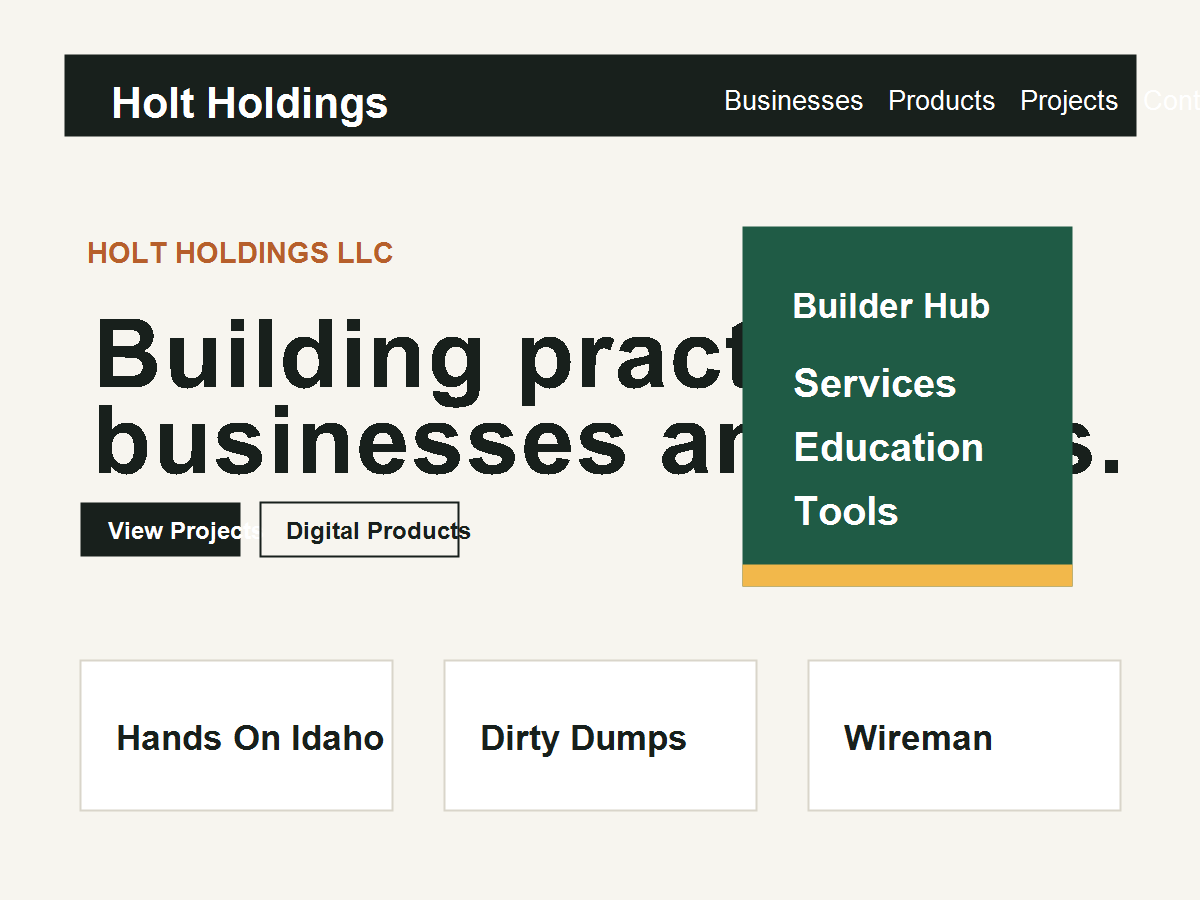
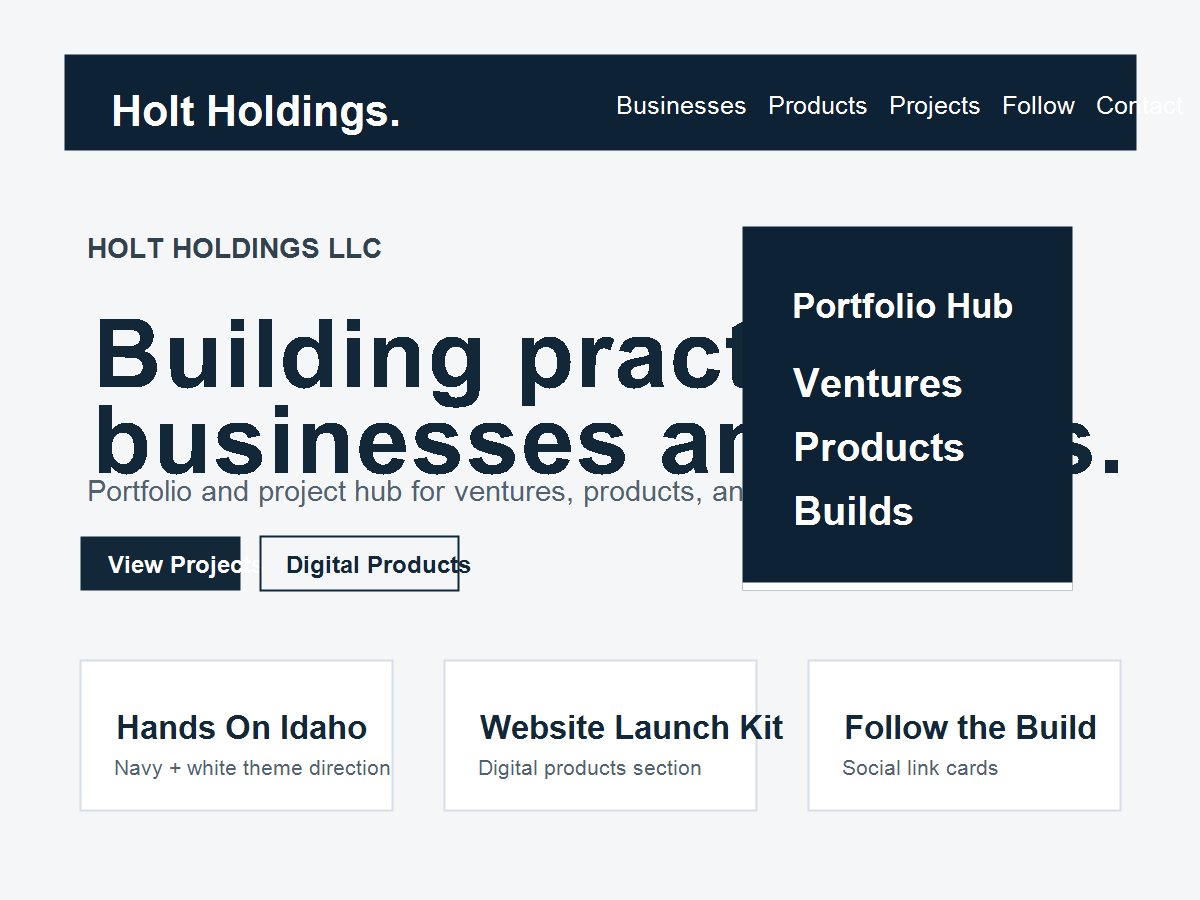
Refresh homepage products and social links

diff --git a/style.css b/style.css
@@ -4,11 +4,11 @@ Theme URI: https://holtholdings.us
 Author: Austin Holt
 Author URI: https://holtholdings.us
 Description: A lightweight portfolio and project hub for Austin Holt and Holt Holdings LLC.
-Version: 1.2.0
+Version: 1.3.0
 Requires at least: 6.0
 Tested up to: 6.6
 Requires PHP: 7.4
-Update URI: https://github.com/YOUR-GITHUB-USERNAME/holt-holdings-wp-theme
+Update URI: https://github.com/austindholt/holt-holdings-wp-theme
 License: GNU General Public License v2 or later
 License URI: https://www.gnu.org/licenses/gpl-2.0.html
 Text Domain: holt-holdings
@@ -16,16 +16,17 @@ Tags: custom-logo, custom-menu, featured-images, one-column, portfolio
 */
 
 :root {
-  --bg: #f7f5ef;
+  --bg: #f4f6f8;
   --surface: #ffffff;
-  --ink: #18201c;
-  --muted: #5c665e;
-  --line: #d9d5ca;
-  --steel: #344552;
-  --green: #1f5b45;
-  --copper: #b65f2b;
-  --yellow: #f2b84b;
-  --shadow: 0 18px 55px rgba(24, 32, 28, 0.1);
+  --ink: #122738;
+  --muted: #52616f;
+  --line: #d8dee5;
+  --steel: #31414e;
+  --navy: #122738;
+  --dark-navy: #0d2234;
+  --soft-navy: #e8eef3;
+  --white: #ffffff;
+  --shadow: 0 18px 55px rgba(13, 34, 52, 0.12);
   --radius: 8px;
   --max: 1160px;
 }
@@ -40,13 +41,13 @@ body {
   font-size: 16px;
   line-height: 1.6;
 }
-a { color: inherit; text-decoration-color: rgba(31, 91, 69, 0.45); text-underline-offset: 0.18em; }
-a:hover, a:focus { color: var(--green); }
+a { color: inherit; text-decoration-color: rgba(18, 39, 56, 0.35); text-underline-offset: 0.18em; }
+a:hover, a:focus { color: var(--navy); }
 img { display: block; height: auto; max-width: 100%; }
 .screen-reader-text { clip: rect(1px, 1px, 1px, 1px); height: 1px; overflow: hidden; position: absolute; white-space: nowrap; width: 1px; }
 
 .site-header {
-  background: rgba(247, 245, 239, 0.94);
+  background: rgba(244, 246, 248, 0.94);
   border-bottom: 1px solid var(--line);
   position: sticky;
   top: 0;
@@ -69,14 +70,14 @@ img { display: block; height: auto; max-width: 100%; }
 .site-branding .custom-logo-link { display: inline-flex; flex: 0 0 auto; }
 .site-branding .custom-logo {
   height: auto;
-  max-height: 48px;
-  max-width: min(220px, 48vw);
+  max-height: 54px;
+  max-width: min(240px, 48vw);
   width: auto;
 }
 .brand-mark {
   align-items: center;
   background: var(--ink);
-  border: 2px solid var(--yellow);
+  border: 2px solid var(--white);
   color: #fff;
   display: inline-flex;
   font-size: 0.86rem;
@@ -126,7 +127,7 @@ img { display: block; height: auto; max-width: 100%; }
 .hero { padding-block: 56px 40px; }
 .hero-grid { align-items: center; display: grid; gap: 34px; }
 .eyebrow, .card-kicker, .coming-soon {
-  color: var(--copper);
+  color: var(--steel);
   font-size: 0.78rem;
   font-weight: 800;
   letter-spacing: 0.08em;
@@ -160,19 +161,21 @@ img { display: block; height: auto; max-width: 100%; }
   padding: 11px 16px;
   text-decoration: none;
 }
-.button:hover, .button:focus, .wp-block-button__link:hover, .wp-block-button__link:focus { background: var(--green); border-color: var(--green); color: #fff; }
+.button:hover, .button:focus, .wp-block-button__link:hover, .wp-block-button__link:focus { background: var(--steel); border-color: var(--steel); color: #fff; }
 .button.secondary { background: transparent; color: var(--ink); }
 .button.secondary:hover, .button.secondary:focus { background: var(--ink); color: #fff; }
 
 .hero-panel {
-  background: linear-gradient(135deg, rgba(31, 91, 69, 0.95), rgba(52, 69, 82, 0.96));
+  background:
+    linear-gradient(135deg, rgba(13, 34, 52, 0.98), rgba(18, 39, 56, 0.96)),
+    repeating-linear-gradient(90deg, rgba(255, 255, 255, 0.05) 0 1px, transparent 1px 28px);
   box-shadow: var(--shadow);
   color: #fff;
   overflow: hidden;
   padding: 24px;
   position: relative;
 }
-.hero-panel::after { background: var(--yellow); content: ""; height: 12px; inset: auto 0 0; position: absolute; }
+.hero-panel::after { background: var(--white); content: ""; height: 8px; inset: auto 0 0; position: absolute; opacity: 0.9; }
 .panel-label { color: rgba(255,255,255,0.72); font-size: 0.78rem; font-weight: 800; letter-spacing: 0.08em; text-transform: uppercase; }
 .panel-lines { display: grid; gap: 12px; margin-top: 24px; }
 .panel-line { align-items: center; border-top: 1px solid rgba(255,255,255,0.18); display: flex; gap: 12px; justify-content: space-between; padding-top: 12px; }
@@ -193,16 +196,34 @@ img { display: block; height: auto; max-width: 100%; }
 .hub-card h3, .product-feature h3, .contact-band h2 { font-size: 1.35rem; line-height: 1.15; margin: 10px 0; }
 .hub-card p, .product-feature p, .contact-band p, .entry-content p { color: var(--muted); margin: 0 0 16px; }
 .card-actions { margin-top: auto; }
-.product-feature { background: linear-gradient(90deg, rgba(242,184,75,0.24), transparent 44%), var(--surface); display: grid; gap: 16px; }
+.product-grid { display: grid; gap: 14px; }
+.product-feature { background: linear-gradient(90deg, rgba(18, 39, 56, 0.08), transparent 48%), var(--surface); display: grid; gap: 16px; }
 .check-list { display: grid; gap: 8px; list-style: none; margin: 0; padding: 0; }
 .check-list li { color: var(--muted); padding-left: 26px; position: relative; }
-.check-list li::before { background: var(--green); content: ""; height: 8px; left: 2px; position: absolute; top: 0.65em; width: 8px; }
-.coming-soon { background: rgba(242,184,75,0.18); border: 1px solid rgba(182,95,43,0.24); display: inline-flex; padding: 4px 8px; width: fit-content; }
+.check-list li::before { background: var(--navy); content: ""; height: 8px; left: 2px; position: absolute; top: 0.65em; width: 8px; }
+.coming-soon { background: var(--soft-navy); border: 1px solid var(--line); display: inline-flex; padding: 4px 8px; width: fit-content; }
 .contact-band { align-items: center; display: grid; gap: 18px; }
 .social-list { list-style: none; margin-bottom: 0; padding: 0; }
 .social-list a { border: 1px solid var(--line); display: inline-flex; font-weight: 800; padding: 10px 12px; text-decoration: none; }
+.social-grid { display: grid; gap: 12px; grid-template-columns: repeat(2, minmax(0, 1fr)); }
+.social-card {
+  align-items: center;
+  background: var(--surface);
+  border: 1px solid var(--line);
+  border-radius: var(--radius);
+  color: var(--ink);
+  display: flex;
+  font-weight: 800;
+  justify-content: space-between;
+  min-height: 58px;
+  padding: 14px 16px;
+  text-decoration: none;
+}
+.social-card::after { color: var(--muted); content: ">"; font-size: 1rem; }
+.social-card:hover, .social-card:focus { background: var(--navy); border-color: var(--navy); color: #fff; }
+.social-card:hover::after, .social-card:focus::after { color: #fff; }
 
-.site-footer { background: var(--ink); color: #fff; margin-top: 34px; padding-block: 34px; }
+.site-footer { background: var(--dark-navy); color: #fff; margin-top: 34px; padding-block: 34px; }
 .footer-inner { display: grid; gap: 18px; }
 .footer-main { display: grid; gap: 8px; max-width: 760px; }
 .footer-nav ul { display: flex; flex-wrap: wrap; gap: 8px 18px; list-style: none; margin: 0; padding: 0; }
@@ -222,7 +243,10 @@ img { display: block; height: auto; max-width: 100%; }
   .hero-grid { grid-template-columns: minmax(0, 1.45fr) minmax(280px, 0.55fr); }
   .section { padding-block: 62px; }
   .card-grid { grid-template-columns: repeat(3, minmax(0, 1fr)); }
+  .product-grid { grid-template-columns: repeat(2, minmax(0, 1fr)); }
   .product-feature, .contact-band { grid-template-columns: minmax(0, 1.15fr) minmax(260px, 0.85fr); }
+  .product-grid .product-feature { grid-template-columns: 1fr; }
+  .social-grid { grid-template-columns: repeat(3, minmax(0, 1fr)); }
   .footer-inner { align-items: center; grid-template-columns: minmax(0, 1fr) auto; }
 }
 @media (max-width: 782px) { .admin-bar .site-header { top: 46px; } }

diff --git a/front-page.php b/front-page.php
@@ -51,6 +51,42 @@ $projects = array(
 		'label'       => 'Coming Soon',
 	),
 );
+
+$digital_products = array(
+	array(
+		'name'        => 'Low Volt Crash Course',
+		'kicker'      => 'Digital Education',
+		'description' => 'A standalone beginner-friendly digital education product covering cameras, access control, wiring basics, tools, and practical field knowledge.',
+		'url'         => holt_holdings_setting( 'course_url', '#low-volt-crash-course' ),
+		'button'      => 'View Course',
+		'points'      => array(
+			'Cameras, access control, and system fundamentals',
+			'Wiring basics, field tools, and practical learning habits',
+			'Plain-language lessons for beginners',
+		),
+	),
+	array(
+		'name'        => 'DIY Website Builder / Website Launch Kit',
+		'kicker'      => 'Website Product',
+		'description' => 'DIY Website Builder is a practical website launch kit built to help small business owners, side hustlers, and creators move from a blank screen to a live website faster. It includes structure, prompts, and guidance to make the website-building process less overwhelming.',
+		'url'         => holt_holdings_setting( 'website_kit_url', '#website-launch-kit' ),
+		'button'      => 'View Product',
+		'points'      => array(
+			'Website structure and launch planning',
+			'Prompts for copy, offers, pages, and calls to action',
+			'Guidance for getting unstuck and publishing faster',
+		),
+	),
+);
+
+$social_links = array(
+	array( 'label' => 'Facebook', 'url' => holt_holdings_setting( 'facebook_url', '#facebook' ) ),
+	array( 'label' => 'Instagram', 'url' => holt_holdings_setting( 'instagram_url', '#instagram' ) ),
+	array( 'label' => 'YouTube', 'url' => holt_holdings_setting( 'youtube_url', '#youtube' ) ),
+	array( 'label' => 'TikTok', 'url' => holt_holdings_setting( 'tiktok_url', '#tiktok' ) ),
+	array( 'label' => 'LinkedIn', 'url' => holt_holdings_setting( 'linkedin_url', '#linkedin' ) ),
+	array( 'label' => 'Personal Website', 'url' => holt_holdings_setting( 'personal_site_url', '#personal-website' ) ),
+);
 ?>
 <main id="primary" class="site-main">
 	<section class="hero" id="home">
@@ -106,21 +142,26 @@ $projects = array(
 	<section class="section" id="products">
 		<div class="section-heading">
 			<span class="eyebrow"><?php esc_html_e( 'Digital Products', 'holt-holdings' ); ?></span>
-			<h2><?php esc_html_e( 'Courses and practical resources.', 'holt-holdings' ); ?></h2>
+			<h2><?php esc_html_e( 'Courses, launch kits, and practical resources.', 'holt-holdings' ); ?></h2>
+			<p><?php esc_html_e( 'Digital products listed here are separate products and resources connected to the broader Holt Holdings portfolio.', 'holt-holdings' ); ?></p>
 		</div>
-		<article class="product-feature">
-			<div>
-				<span class="card-kicker"><?php esc_html_e( 'Featured Product', 'holt-holdings' ); ?></span>
-				<h3><?php esc_html_e( 'Low Volt Crash Course', 'holt-holdings' ); ?></h3>
-				<p><?php esc_html_e( 'A standalone beginner-friendly digital education product covering cameras, access control, wiring basics, tools, and practical field knowledge.', 'holt-holdings' ); ?></p>
-				<a class="button" href="<?php echo esc_url( holt_holdings_setting( 'course_url', '#' ) ); ?>"><?php esc_html_e( 'View Course', 'holt-holdings' ); ?></a>
-			</div>
-			<ul class="check-list">
-				<li><?php esc_html_e( 'Cameras, access control, and system fundamentals', 'holt-holdings' ); ?></li>
-				<li><?php esc_html_e( 'Wiring basics, field tools, and practical learning habits', 'holt-holdings' ); ?></li>
-				<li><?php esc_html_e( 'Plain-language lessons for beginners', 'holt-holdings' ); ?></li>
-			</ul>
-		</article>
+		<div class="product-grid">
+			<?php foreach ( $digital_products as $product ) : ?>
+				<article class="product-feature">
+					<div>
+						<span class="card-kicker"><?php echo esc_html( $product['kicker'] ); ?></span>
+						<h3><?php echo esc_html( $product['name'] ); ?></h3>
+						<p><?php echo esc_html( $product['description'] ); ?></p>
+						<a class="button" href="<?php echo esc_url( $product['url'] ); ?>"><?php echo esc_html( $product['button'] ); ?></a>
+					</div>
+					<ul class="check-list">
+						<?php foreach ( $product['points'] as $point ) : ?>
+							<li><?php echo esc_html( $point ); ?></li>
+						<?php endforeach; ?>
+					</ul>
+				</article>
+			<?php endforeach; ?>
+		</div>
 	</section>
 
 	<section class="section" id="projects">
@@ -139,6 +180,19 @@ $projects = array(
 		</div>
 	</section>
 
+	<section class="section" id="follow">
+		<div class="section-heading">
+			<span class="eyebrow"><?php esc_html_e( 'Follow Along', 'holt-holdings' ); ?></span>
+			<h2><?php esc_html_e( 'Follow the Build', 'holt-holdings' ); ?></h2>
+			<p><?php esc_html_e( 'Follow along as Holt Holdings grows practical businesses, digital products, tools, and trade-focused resources.', 'holt-holdings' ); ?></p>
+		</div>
+		<div class="social-grid">
+			<?php foreach ( $social_links as $social_link ) : ?>
+				<a class="social-card" href="<?php echo esc_url( $social_link['url'] ); ?>"><?php echo esc_html( $social_link['label'] ); ?></a>
+			<?php endforeach; ?>
+		</div>
+	</section>
+
 	<section class="section" id="contact">
 		<div class="contact-band">
 			<div>
@@ -148,12 +202,6 @@ $projects = array(
 			</div>
 			<div>
 				<a class="button" href="mailto:<?php echo esc_attr( antispambot( $contact_email ) ); ?>"><?php esc_html_e( 'Email Austin', 'holt-holdings' ); ?></a>
-				<ul class="social-list" id="social">
-					<li><a href="<?php echo esc_url( holt_holdings_setting( 'instagram_url', '#' ) ); ?>"><?php esc_html_e( 'Instagram', 'holt-holdings' ); ?></a></li>
-					<li><a href="<?php echo esc_url( holt_holdings_setting( 'youtube_url', '#' ) ); ?>"><?php esc_html_e( 'YouTube', 'holt-holdings' ); ?></a></li>
-					<li><a href="<?php echo esc_url( holt_holdings_setting( 'linkedin_url', '#' ) ); ?>"><?php esc_html_e( 'LinkedIn', 'holt-holdings' ); ?></a></li>
-					<li><a href="<?php echo esc_url( holt_holdings_setting( 'x_url', '#' ) ); ?>"><?php esc_html_e( 'X', 'holt-holdings' ); ?></a></li>
-				</ul>
 			</div>
 		</div>
 	</section>

diff --git a/functions.php b/functions.php
@@ -65,15 +65,18 @@ function holt_holdings_customize_register( $wp_customize ) {
 			'type'    => 'textarea',
 		),
 		// Placeholder links: leave as # until each brand, product, or social URL is ready.
-		'course_url'       => array( 'label' => __( 'Low Volt Crash Course URL', 'holt-holdings' ), 'default' => '#', 'type' => 'url' ),
+		'course_url'       => array( 'label' => __( 'Low Volt Crash Course URL', 'holt-holdings' ), 'default' => '#low-volt-crash-course', 'type' => 'url' ),
+		'website_kit_url'  => array( 'label' => __( 'DIY Website Builder / Website Launch Kit URL', 'holt-holdings' ), 'default' => '#website-launch-kit', 'type' => 'url' ),
 		'contact_email'    => array( 'label' => __( 'Contact Email', 'holt-holdings' ), 'default' => 'hello@holtholdings.us', 'type' => 'email' ),
 		'hands_on_idaho_url' => array( 'label' => __( 'Hands On Idaho URL', 'holt-holdings' ), 'default' => '#', 'type' => 'url' ),
 		'dirty_dumps_url'  => array( 'label' => __( 'Dirty Dumps Hauling Co. URL', 'holt-holdings' ), 'default' => '#', 'type' => 'url' ),
 		'wireman_url'      => array( 'label' => __( 'Wireman URL', 'holt-holdings' ), 'default' => '#', 'type' => 'url' ),
-		'instagram_url'    => array( 'label' => __( 'Instagram URL', 'holt-holdings' ), 'default' => '#', 'type' => 'url' ),
-		'youtube_url'      => array( 'label' => __( 'YouTube URL', 'holt-holdings' ), 'default' => '#', 'type' => 'url' ),
-		'linkedin_url'     => array( 'label' => __( 'LinkedIn URL', 'holt-holdings' ), 'default' => '#', 'type' => 'url' ),
-		'x_url'            => array( 'label' => __( 'X / Twitter URL', 'holt-holdings' ), 'default' => '#', 'type' => 'url' ),
+		'facebook_url'     => array( 'label' => __( 'Facebook URL', 'holt-holdings' ), 'default' => '#facebook', 'type' => 'url' ),
+		'instagram_url'    => array( 'label' => __( 'Instagram URL', 'holt-holdings' ), 'default' => '#instagram', 'type' => 'url' ),
+		'youtube_url'      => array( 'label' => __( 'YouTube URL', 'holt-holdings' ), 'default' => '#youtube', 'type' => 'url' ),
+		'tiktok_url'       => array( 'label' => __( 'TikTok URL', 'holt-holdings' ), 'default' => '#tiktok', 'type' => 'url' ),
+		'linkedin_url'     => array( 'label' => __( 'LinkedIn URL', 'holt-holdings' ), 'default' => '#linkedin', 'type' => 'url' ),
+		'personal_site_url' => array( 'label' => __( 'Personal Website / Future Link URL', 'holt-holdings' ), 'default' => '#personal-website', 'type' => 'url' ),
 	);
 
 	foreach ( $fields as $id => $field ) {
@@ -121,6 +124,7 @@ function holt_holdings_fallback_menu() {
 		<li><a href="<?php echo esc_url( home_url( '/' ) ); ?>#businesses"><?php esc_html_e( 'Businesses', 'holt-holdings' ); ?></a></li>
 		<li><a href="<?php echo esc_url( home_url( '/' ) ); ?>#products"><?php esc_html_e( 'Digital Products', 'holt-holdings' ); ?></a></li>
 		<li><a href="<?php echo esc_url( home_url( '/' ) ); ?>#projects"><?php esc_html_e( 'Projects', 'holt-holdings' ); ?></a></li>
+		<li><a href="<?php echo esc_url( home_url( '/' ) ); ?>#follow"><?php esc_html_e( 'Follow', 'holt-holdings' ); ?></a></li>
 		<li><a href="<?php echo esc_url( home_url( '/' ) ); ?>#contact"><?php esc_html_e( 'Contact', 'holt-holdings' ); ?></a></li>
 	</ul>
 	<?php

diff --git a/footer.php b/footer.php
@@ -31,6 +31,7 @@
 		</nav>
 	</div>
 </footer>
+<!-- Holt Holdings theme deploy test: GitHub-to-WordPress update active -->
 <?php wp_footer(); ?>
 </body>
 </html>

diff --git a/README.md b/README.md
@@ -27,6 +27,10 @@ For Deployer for Git or a similar WordPress Git deployment plugin, use this repo
 
 `https://github.com/<YOUR-GITHUB-USERNAME>/holt-holdings-wp-theme`
 
+Current GitHub repository for this theme:
+
+`https://github.com/austindholt/holt-holdings-wp-theme`
+
 Recommended deployment target inside WordPress:
 
 `wp-content/themes/holt-holdings`
@@ -46,10 +50,11 @@ If the GitHub repo is private, the deployment plugin may require authentication,
 The main homepage copy and placeholder links can be edited in **Appearance > Customize > Holt Holdings Home**:
 
 - Hero headline and subheadline
-- Course link
+- Low Volt Crash Course link
+- DIY Website Builder / Website Launch Kit link
 - Contact email
 - Business links
-- Social links
+- Social links, including Facebook, Instagram, YouTube, TikTok, LinkedIn, and personal website
 
 Placeholder links are stored in `functions.php` as Customizer defaults and in `front-page.php` as clearly marked fallback values. Replace `#` values when final URLs are ready.
 
@@ -90,6 +95,14 @@ This creates `holt-holdings.zip` as a fallback upload artifact. The zip file is 
 - The design is mobile-first, responsive, and intentionally lightweight.
 
 ## Changelog
+
+### 1.3.0
+
+- Updated the theme color palette to match the Holt Holdings navy and white logo direction.
+- Added a stronger Follow the Build social section with Facebook and other placeholder links.
+- Added the DIY Website Builder / Website Launch Kit digital product card.
+- Kept Wireman positioned as a family tool project under construction.
+- Added a footer HTML comment for testing the Deployer for Git workflow.
 
 ### 1.2.0
 
